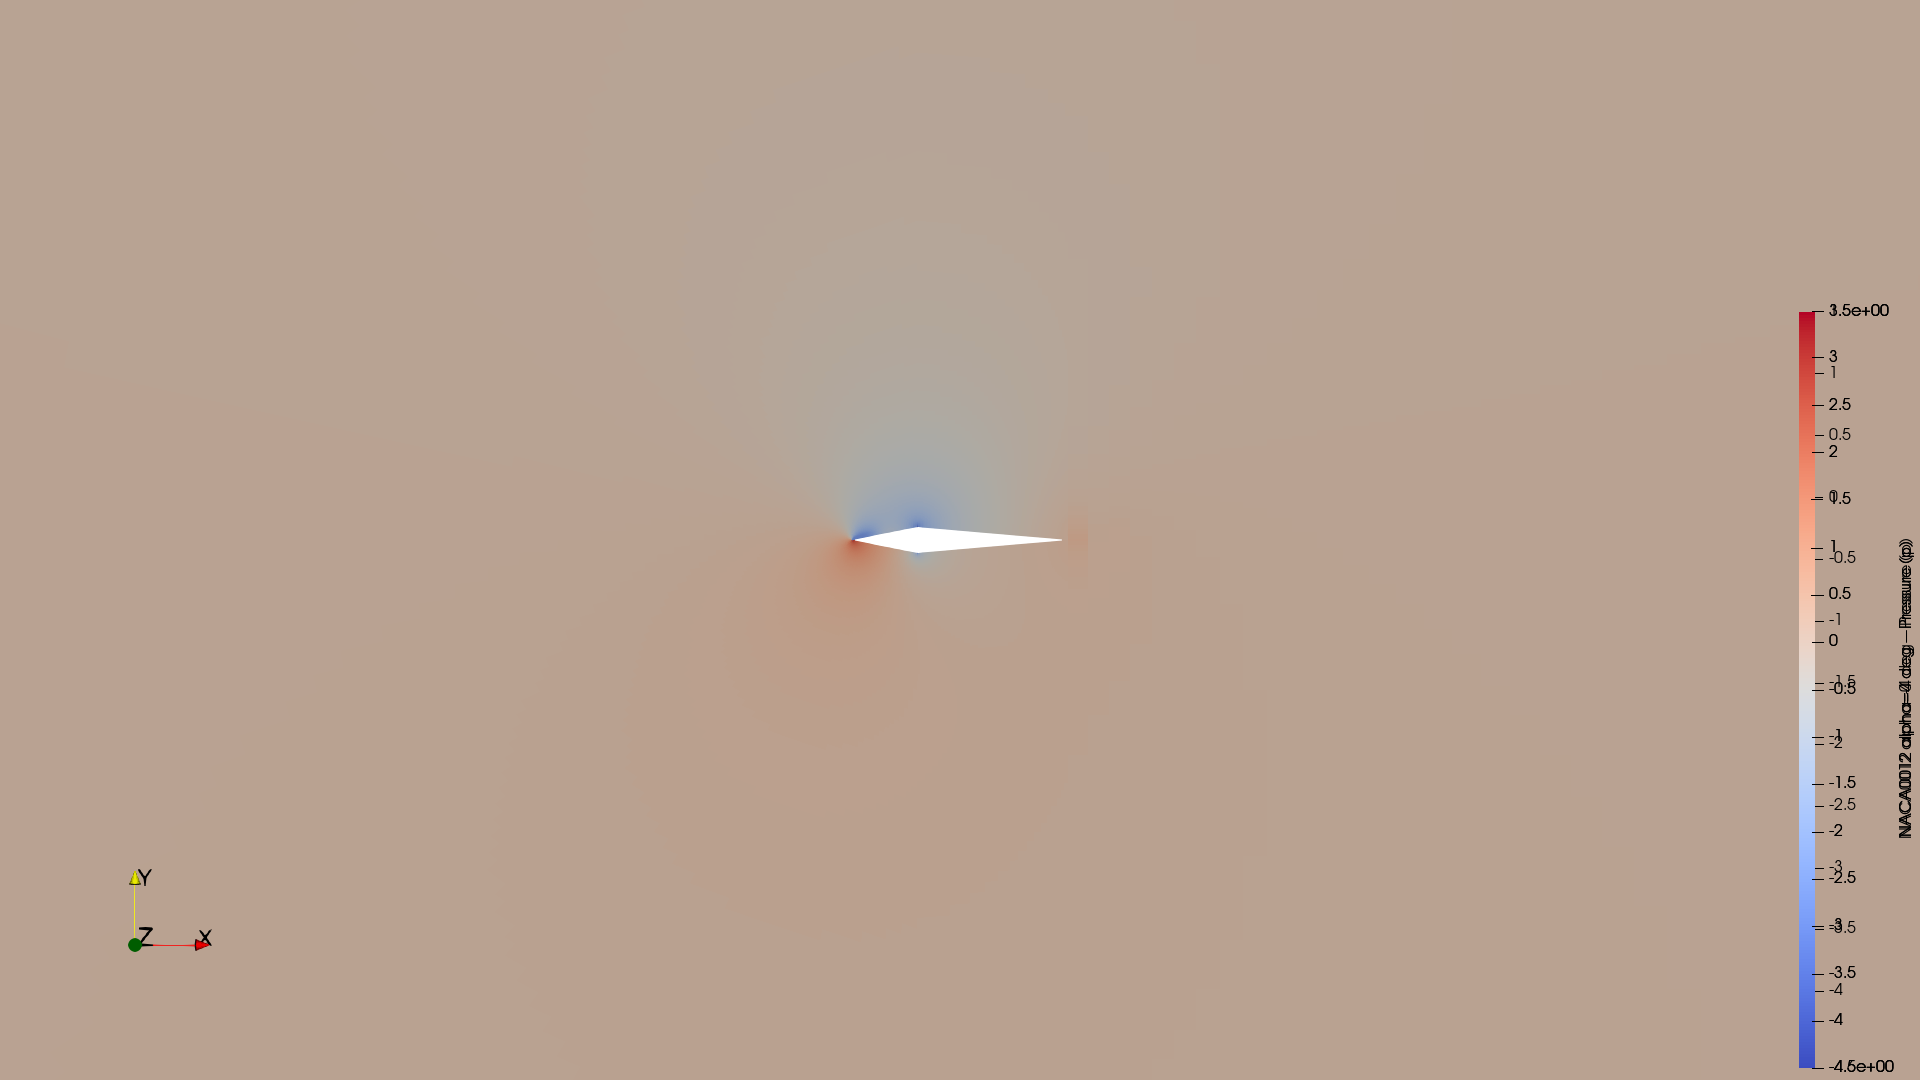
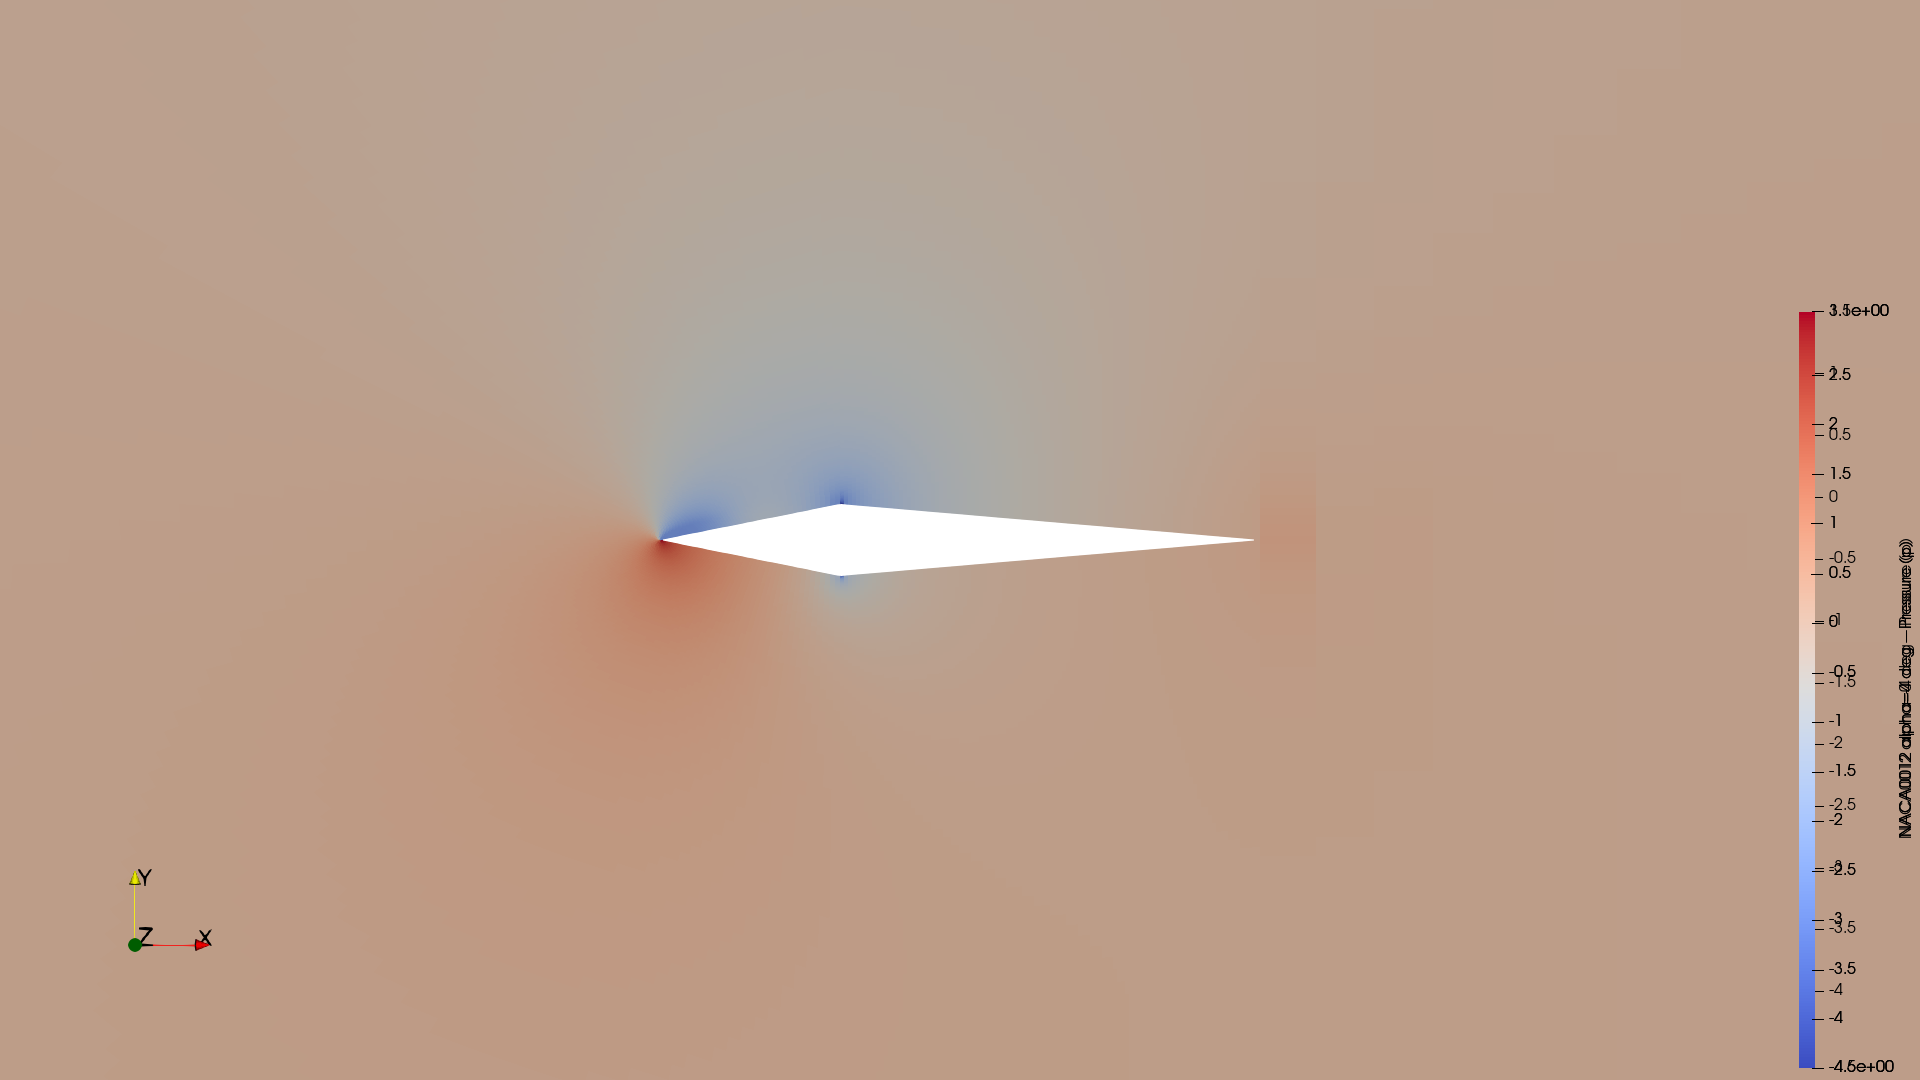
fix: render_naca0012_photos.py camera reset bug producing unreadable pressure plots
Renders looked like a flat white diamond with no visible pressure structure.
Root cause was not camera orientation (verified via checkMesh: x=chord,
y=lift, z=span - the camera was already correctly positioned looking down
-z at the x-y cross-section). It was a ParaView quirk: the first Render()
call after Show() auto-resets the camera to fit the entire ~60x40 domain,
silently overriding any camera settings made beforehand - confirmed by
printing actual camera state post-render (scale=35.9, centered on the
domain centroid) versus what was explicitly set (scale=0.9, centered on
the airfoil). This meant the camera settings were never taking effect at
any zoom value, not just the previous one.

Fixed with paraview.simple._DisableFirstRenderCameraReset(), plus
tightened CameraParallelScale from 2.5 to 0.9 now that it actually sticks,
and switched the color rescale from RescaleTransferFunctionToDataRange
(full dataset) to RescaleTransferFunctionToVisibleRange (called after the
camera settings). Note: checked whether the color range itself was being
diluted by far-field data - it wasn't (full-domain and near-airfoil p
ranges were numerically identical in the case checked) - so the visible-
range switch is a correctness improvement for the general case, not what
fixed this specific symptom.

Re-rendered all 8 NACA0012 photos with the fix. Spot-checked alpha=8 (clear
LE suction peak, stagnation pressure below) and alpha=20 (shows a detached
[…]

diff --git a/render_naca0012_photos.py b/render_naca0012_photos.py
@@ -19,6 +19,11 @@ from paraview.simple import (
     Show, Render, SaveScreenshot,
 )
 import paraview.simple as pv
+# Without this, ParaView auto-resets the camera to fit the WHOLE dataset on the
+# first Render() call after Show(), silently overriding any explicit camera
+# settings made beforehand - this was the actual cause of the "flat diamond"
+# renders (camera was ending up fit to the full ~60x40 domain, not the airfoil).
+pv._DisableFirstRenderCameraReset()
 
 SCRIPTS_DIR = Path(os.path.expanduser("~/OpenFOAM/scripts"))
 CASES_DIR = SCRIPTS_DIR / "cases"
@@ -53,7 +58,6 @@ def render_case(case_path: Path, out_png: Path, alpha: float):
     display = Show(reader, view)
     ColorBy(display, ("CELLS", "p"))
     display.SetRepresentationType("Surface")
-    display.RescaleTransferFunctionToDataRange(True)
 
     pLUT = GetColorTransferFunction("p")
     pLUT.ApplyPreset("Cool to Warm", True)
@@ -66,13 +70,23 @@ def render_case(case_path: Path, out_png: Path, alpha: float):
     bar.Position = [0.87, 0.1]
     bar.ScalarBarLength = 0.7
 
-    ResetCamera()
+    # Camera: looking down -z (span axis) at the x-y chord/thickness cross-section -
+    # this part was already correct. The bug was zoom: parallel scale of 2.5 shows
+    # ~5 chord-lengths vertically, so the 0.12c-thick airfoil occupied only ~2% of
+    # the frame (the "flat diamond" look). Tightened to frame ~1.8 chords vertically
+    # so the airfoil is actually recognizable.
     view.CameraParallelProjection = 1
     view.CameraPosition = [0.5, 0.0, 10.0]
     view.CameraFocalPoint = [0.5, 0.0, 0.0]
     view.CameraViewUp = [0.0, 1.0, 0.0]
-    view.CameraParallelScale = 2.5
+    view.CameraParallelScale = 0.9
 
+    Render()
+    # Rescale color range to what's actually visible post-zoom, not the raw
+    # full-domain data range (measured to be numerically the same here since the
+    # pressure extremes happen to sit near the airfoil anyway, but this is the
+    # more correct/robust call in general and costs nothing).
+    display.RescaleTransferFunctionToVisibleRange(view)
     Render()
     SaveScreenshot(str(out_png), view, ImageResolution=VIEW_SIZE,
                    TransparentBackground=0, CompressionLevel=6)
